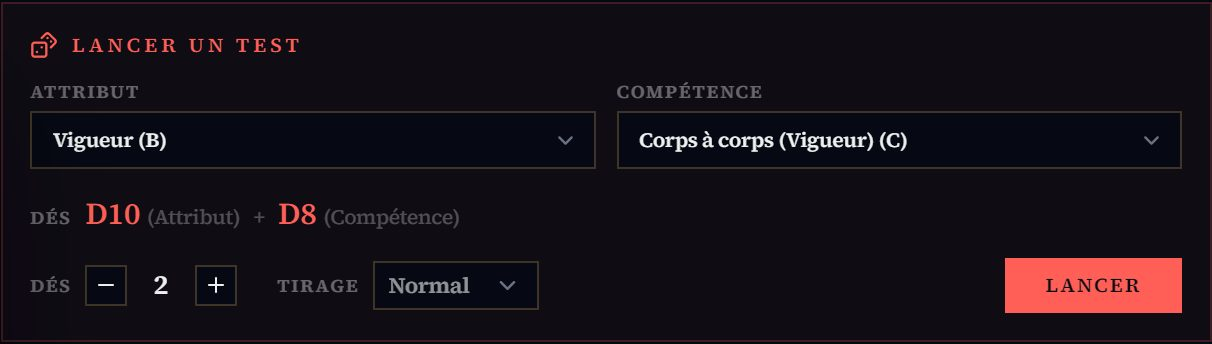
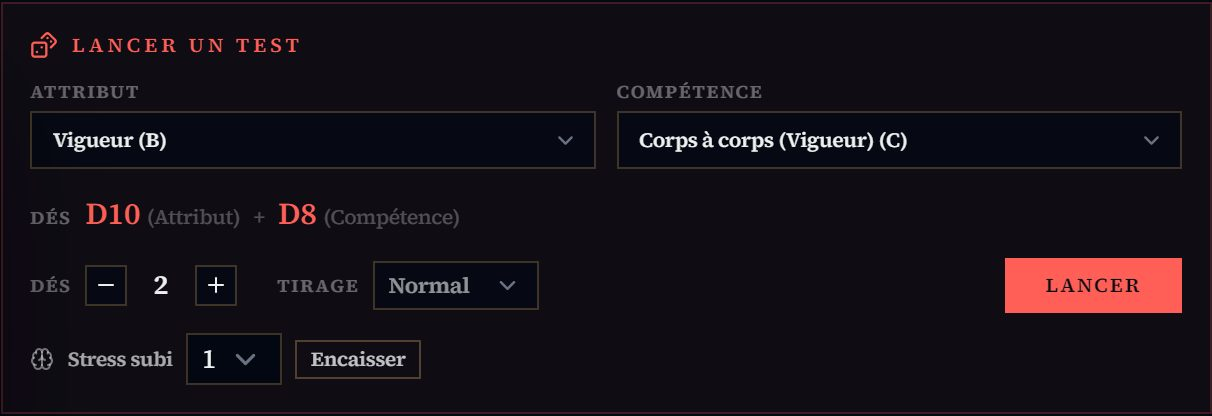
docs(manuel): les captures manquantes d'Alien, de Torg et de Blade Runner
Demande de David : faire les captures manquantes du manuel. Le scenario
capturesDesJeux gagne les scenes d'Alien (test de Panique, jet force), de Torg
(Lois du cosm courant, horde de sbires) et de Blade Runner (relance d'un D10 a
une seule reussite, stress encaisse). Six captures relues et entrees aux
pages 54 ; les captures communes des trois jeux refaites.

En relisant : les menus du stress subi et de Brise par les degats, trop
etroits (la fleche chevauchait la valeur), sont elargis.

diff --git a/e2e/capturesDesJeux.spec.ts b/e2e/capturesDesJeux.spec.ts
@@ -102,6 +102,7 @@ const MISES_EN_SCENE: MiseEnScene[] = [
         corpusId: 'alien', slug: 'alien', personnage: 'Dana Okoro',
         sheetData: { force: 4, combat_rapproche: 2, niveau_de_stress: 2, points_de_recit: 1 },
         composantes: ['force', 'combat_rapproche', 'niveau_de_stress'],
+        scenes: c => scenesDAlien(c),
     },
     {
         corpusId: 'blade-runner', slug: 'blade-runner', personnage: 'Agent Kessler',
@@ -134,6 +135,7 @@ const MISES_EN_SCENE: MiseEnScene[] = [
             dramatique: { premier: 'V', vilains: ['vivacite'], heros: ['fatigues'] },
             approuvees: ['provocation'],
         },
+        scenes: c => scenesDeTorg(c),
     },
 ];
 
@@ -548,9 +550,110 @@ async function scenesDeCthulhuHack(c: ContexteDeScene): Promise<void> {
     }
 }
 
+/**
+ * Le panneau de jet du PJ, ses composantes retenues, relancé jusqu'à ce que `voulu`
+ * paraisse — un 1 sur un dé de Stress, un D10 à une seule réussite. Le hasard du
+ * jet est celui du jeu : on relance, on ne le truque pas.
+ */
+async function jeterJusqua(c: ContexteDeScene, composantes: string[], voulu: (panneau: Locator) => Locator, essais = 40): Promise<Locator> {
+    const f = gmos.fenetre;
+    await vue(c.campagne, 'players', { joueur: JOUEUR, personnage: c.personnage });
+    const panneau = f.locator('[data-panneau-de-jet]').first();
+    await expect(panneau).toBeVisible({ timeout: 15_000 });
+    for (const [i, champ] of composantes.entries()) await panneau.locator('select').nth(i).selectOption(champ);
+    const cible = voulu(panneau);
+    for (let i = 0; i < essais && await cible.count() === 0; i++) {
+        await panneau.getByRole('button', { name: 'Lancer', exact: true }).click();
+    }
+    await expect(cible.first()).toBeVisible();
+    return panneau;
+}
+
+/** Le panneau photographié en entier : on agrandit la fenêtre le temps de la prise. */
+async function photographierLePanneau(panneau: Locator, nom: string): Promise<void> {
+    const fenetre = await gmos.application.browserWindow(gmos.fenetre);
+    await fenetre.evaluate(w => w.setContentSize(1440, 1800));
+    await photographier(panneau, nom);
+    await fenetre.evaluate(w => w.setContentSize(1440, 900));
+}
+
+/** Alien : le test de Panique qu'un 1 de Stress déclenche, et un jet forcé. */
+async function scenesDAlien(c: ContexteDeScene): Promise<void> {
+    const jet = (c.pilote.gameDriver as { jet?: { forcer?: unknown; panique?: unknown } }).jet;
+    const composantes = ['force', 'combat_rapproche', 'niveau_de_stress'];
+    if (jet?.panique) {
+        const panneau = await jeterJusqua(c, composantes, p => p.getByRole('button', { name: 'Test de Panique', exact: true }));
+        await panneau.getByRole('button', { name: 'Test de Panique', exact: true }).click();
+        await expect(panneau.locator('[data-test-de-panique]')).toBeVisible({ timeout: 15_000 });
+        await gmos.fenetre.waitForTimeout(1_000);
+        await photographierLePanneau(panneau, 'jeu-alien-panique');
+    }
+    if (jet?.forcer) {
+        // Un jet sans Panique, qu'on force : les dés relancés se cerclent, le Stress monte.
+        const panneau = await jeterJusqua(c, composantes, p => p.locator('button:enabled', { hasText: /^Forcer le jet/ }));
+        await panneau.locator('button:enabled', { hasText: /^Forcer le jet/ }).click();
+        await expect(panneau.getByText(/Jet forcé/).first()).toBeVisible();
+        await photographierLePanneau(panneau, 'jeu-alien-force');
+    }
+}
+
+/** Torg : les Lois du cosm courant, et une horde de sbires sur la carte d'un adversaire. */
+async function scenesDeTorg(c: ContexteDeScene): Promise<void> {
+    const pilote = c.pilote.gameDriver as { cosms?: { id: string }[]; combat?: { dommages?: { mecanique?: string } } };
+    const f = gmos.fenetre;
+    if (pilote.cosms?.length) {
+        await f.evaluate(({ campagne, cosm }) => {
+            const s = (window as unknown as Fenetre).useSessionOSStore;
+            s.setState(st => ({ campaigns: st.campaigns.map(x => x.id === campagne ? { ...x, cosmsParDefaut: [cosm] } : x) }));
+        }, { campagne: c.campagne, cosm: pilote.cosms[0].id });
+    }
+    const avecHorde = pilote.combat?.dommages?.mecanique === 'torg';
+    if (avecHorde) {
+        await f.evaluate(() => {
+            const combat = (window as unknown as Fenetre).useCombatStore.getState();
+            const fiche = { esprit: 7, resistance: 9 };
+            const adversaire = combat.combatants.find(x => !x.isPlayer);
+            // Une Esprit et une Résistance pour la horde : un sbire sans fiche les dirait à zéro.
+            if (adversaire) combat.updateCombatant(adversaire.id, { sheetData: { ...(adversaire.sheetData ?? {}), ...fiche } });
+            else combat.addCombatant({ name: 'Gospog', init: 0, isPlayer: false, faction: 'enemy', statuses: [], sheetData: fiche });
+        });
+    }
+    await vue(c.campagne, 'cockpit');
+    await ouvrirLeModule(gmos, 'Combat-OS');
+    if (pilote.cosms?.length) {
+        const lois = f.locator('[data-lois-du-cosm]').first();
+        await expect(lois).toBeVisible({ timeout: 15_000 });
+        await photographier(lois, 'jeu-torg-lois-du-cosm');
+    }
+    if (avecHorde) {
+        const carte = f.locator('[data-combattant]').filter({ hasText: 'Gospog' }).first();
+        await expect(carte).toBeVisible({ timeout: 15_000 });
+        await carte.getByRole('button', { name: /En horde/ }).click();
+        await carte.getByRole('button', { name: 'Former la horde', exact: true }).click();
+        await expect(carte.locator('[data-horde]')).toBeVisible();
+        await carte.getByRole('button', { name: 'Coup sur la horde', exact: true }).click();
+        await photographier(carte, 'jeu-torg-horde');
+    }
+}
+
 /** Blade Runner : la protection, Brisé par les dégâts et par le stress, sur la carte. */
 async function scenesDeBladeRunner(c: ContexteDeScene): Promise<void> {
-    const pilote = c.pilote.gameDriver as { combat?: { horsJeu?: unknown; protection?: unknown } };
+    const pilote = c.pilote.gameDriver as { combat?: { horsJeu?: unknown; protection?: unknown }; jet?: { stressSubi?: unknown; forcer?: { relancerUneReussite?: boolean } } };
+    // Relancer un D10 à une seule réussite, au forçage.
+    if (pilote.jet?.forcer?.relancerUneReussite) {
+        const panneau = await jeterJusqua(c, ['vigueur', 'corpsACorps'], p => p.locator('[data-relancer-aussi]'));
+        await panneau.locator('[data-relancer-aussi] input[type="checkbox"]').first().check();
+        await photographierLePanneau(panneau, 'jeu-blade-runner-relance');
+    }
+    // Le stress encaissé, avant toute chute.
+    if (pilote.jet?.stressSubi) {
+        await ecrireLaFiche(c, { sangFroid: 6 });
+        const carte = await entrerEnCombat(c);
+        await carte.getByLabel('Facteur de stress').selectOption('3');
+        await carte.getByRole('button', { name: 'Encaisser', exact: true }).click();
+        await gmos.fenetre.waitForTimeout(500);
+        await photographier(carte, 'jeu-blade-runner-stress');
+    }
     if (!pilote.combat?.horsJeu && !pilote.combat?.protection) return;
     await ecrireLaFiche(c, { sangFroid: 0 });
     const carte = await entrerEnCombat(c, 30);

diff --git a/src/modules/combat/components/HorsJeuDuCombattant.tsx b/src/modules/combat/components/HorsJeuDuCombattant.tsx
@@ -105,13 +105,13 @@ const PanneauDuHorsJeu: React.FC<{ combatant: Combatant; regle: RegleDuHorsJeu; 
                 <div className="flex flex-wrap items-center gap-2">
                     {tables.length > 1 && (
                         <select aria-label="Table" value={tableChoisie} onChange={e => setTableChoisie(Number(e.target.value))}
-                            className="rounded-lg border border-app-border/40 bg-app-bg px-2 py-1 text-ui-10">
+                            className="rounded-lg border border-app-border/40 bg-app-bg py-1 pl-2 pr-7 text-ui-10">
                             {tables.map((t, i) => <option key={t.label} value={i}>{t.label}</option>)}
                         </select>
                     )}
                     {!!regle.desAuChoix?.length && (
                         <select aria-label="Dé de critique" value={deChoisi} onChange={e => setDeChoisi(Number(e.target.value))}
-                            className="rounded-lg border border-app-border/40 bg-app-bg px-2 py-1 text-ui-10">
+                            className="rounded-lg border border-app-border/40 bg-app-bg py-1 pl-2 pr-7 text-ui-10">
                             {regle.desAuChoix.map(f => <option key={f} value={f}>D{f}</option>)}
                         </select>
                     )}

diff --git a/src/modules/session/components/fields/StressSubi.tsx b/src/modules/session/components/fields/StressSubi.tsx
@@ -46,7 +46,7 @@ const StressSubi: React.FC<{
             <Brain size={12} className="text-app-text/50" />
             <span className="font-bold text-app-text/70">{label} subi</span>
             <select aria-label={`Facteur de ${label.toLowerCase()}`} value={facteur} onChange={e => setFacteur(Number(e.target.value))}
-                className="rounded-md border border-app-border/40 bg-app-bg px-2 py-0.5">
+                className="min-w-[3.5rem] rounded-md border border-app-border/40 bg-app-bg py-0.5 pl-2 pr-7">
                 {Array.from({ length: max }, (_, i) => i + 1).map(n => <option key={n} value={n}>{n}</option>)}
             </select>
             <button type="button" onClick={subir}

diff --git a/documentation/User Guides/54-Jeu-Alien.md b/documentation/User Guides/54-Jeu-Alien.md
@@ -1,6 +1,6 @@
 # 👽 Jeu — Alien
 
-> **Pilote décrit :** « ALIEN, le jeu de rôle », exporté le 2026-10-14. Retour à [Les jeux et leurs mécaniques](./53-Les-jeux-et-leurs-mecaniques.md).
+> **Pilote décrit :** « ALIEN, le jeu de rôle », exporté le 2026-10-16 (captures du jour). Retour à [Les jeux et leurs mécaniques](./53-Les-jeux-et-leurs-mecaniques.md).
 
 Le moteur Year Zero : une réserve de d6, et des **dés de Stress** qui font monter la peur.
 
@@ -160,6 +160,8 @@ locale se vérifie sur chaque appareil choisi pour la diffusion.
 
 ![Après le lancer : deux réussites, et une Panique sur un dé de Stress](captures/jeu-alien-jet-lance.jpg)
 
+![Deux 1 sur les dés de Stress : « Forcer le jet » se grise et dit pourquoi, et le Test de Panique lit sa ligne dans la table — 3 + 2 = 5, Je tiens le coup](captures/jeu-alien-panique.jpg)
+
 ---
 
 ## Forcer le jet
@@ -172,6 +174,8 @@ Après le lancer, **« Forcer le jet »** :
 - **une fois par test**, ou **deux** avec le talent qui couvre l'attribut du jet (champ « Talent ») :
   Dépassement de soi et Cran (Force), Vif et Téméraire (Agilité), Ruse et Curiosité (Esprit),
   Compassion et Influence (Empathie). Le bouton se grise ensuite, et dit pourquoi.
+
+![Un jet forcé : deux dés gardés, sept relancés et cerclés, dont le nouveau dé de Stress ; le Stress monte de 2 à 3, et le bouton dit que le jet a déjà été forcé](captures/jeu-alien-force.jpg)
 
 **Au pupitre** (et depuis la télécommande), « Forcer le jet » relance le dernier jet, ajoute le dé de
 Stress et **annonce** « Stress +1 à reporter sur la fiche ».

diff --git a/documentation/User Guides/54-Jeu-Torg.md b/documentation/User Guides/54-Jeu-Torg.md
@@ -1,6 +1,6 @@
 # ⚡ Jeu — Torg Eternity
 
-> **Pilote décrit :** « Torg Eternity », exporté le 2026-10-13, corrigé le même soir ; cosms ajoutés le 2026-10-14. Retour à [Les jeux et leurs mécaniques](./53-Les-jeux-et-leurs-mecaniques.md).
+> **Pilote décrit :** « Torg Eternity », exporté le 2026-10-13, corrigé le même soir ; cosms ajoutés le 2026-10-14 ; réexporté le 2026-10-16 pour les captures. Retour à [Les jeux et leurs mécaniques](./53-Les-jeux-et-leurs-mecaniques.md).
 
 Les Chevaliers des Tempêtes contre les Seigneurs de Réalité. Les règles de cette page ont été
 relues contre le carnet NotebookLM « Torg » le 2026-10-13.
@@ -209,6 +209,8 @@ d'elles-mêmes, ou s'annoncent au bon moment (livre de base, relu contre le carn
 Les autres Lois (Gloire, Outsider, Sauvagerie, Vie, Domination, Vengeance…) restent à la table, en
 rappel.
 
+![Dans Combat-OS, le rappel compact des Lois du cosm courant — Prime Terre : Espoir, Gloire, Outsider](captures/jeu-torg-lois-du-cosm.jpg)
+
 ---
 
 ## Les Cartes de Cosm
@@ -244,6 +246,8 @@ est alors comptée comme jouée pour l'Acte. Ce qu'elle fait reste à la table.
   3 → +2, 4–5 → +3, 6–9 → +4, 10–14 → +5… En mêlée, quatre au plus contre un même défenseur.
 - **Les Cibles multiples** (p. 122) — au jet, « Cibles » : −2 par cible supplémentaire ; toutes les
   cibles touchées subissent les dommages.
+
+![Une horde de six Gospogs (Esprit 7, Résistance 9) après un coup de 10 : Choc commun 2, prochain KO à 8, et l'attaque combinée de quatre assaillants à +3](captures/jeu-torg-horde.jpg)
 
 ---
 

diff --git a/documentation/Planning/2026-10-16-todo.md b/documentation/Planning/2026-10-16-todo.md
@@ -34,9 +34,10 @@ est fait, on le coche ici **et** on le reporte au [registre](2026-08-23-chantier
   carte demande confirmation avant le lien (`ecartAuLien` dans `logic/jeuDuPersonnage.ts`,
   `CharacterGrid`), « Lier quand même » ou « Annuler » ; guide 10 à jour. Choix : confirmer plutôt
   qu'interdire, pour garder le passage d'un jeu à l'autre. *À reporter au registre.*
-- [ ] **Les captures manquantes du manuel** : le forçage et la Panique d'Alien, les cosms et les
-  hordes de Torg. Demande que David exporte ces deux pilotes ; le scénario est
-  `e2e/capturesDesJeux.spec.ts` (scènes propres à un jeu : `scenes`).
+- [x] **Les captures manquantes du manuel** — faites le 16/10 : Panique et forçage d'Alien, Lois du
+  cosm et horde de Torg, stress subi et relance d'une réussite de Blade Runner (scènes `scenesDAlien`,
+  `scenesDeTorg`, `scenesDeBladeRunner`). Les menus du Brisé et du stress, trop étroits, élargis au
+  passage. *À reporter au registre.*
 
 ## À définir avec David
 

diff --git a/documentation/User Guides/54-Jeu-Blade-Runner.md b/documentation/User Guides/54-Jeu-Blade-Runner.md
@@ -60,6 +60,8 @@ initial compris**, coûte un point, décompté sur la fiche :
 > désignent ces dés (D10 ou D12 entre 6 et 9). C'est risqué : le nouveau résultat s'applique, même
 > pire. *Ajouté le 2026-10-16.*
 
+![Vigueur (D10) et Corps à corps (D8) : le D10 n'a fait qu'une réussite (8) — la case « Relancer aussi » le désigne avant de forcer](captures/jeu-blade-runner-relance.jpg)
+
 ---
 
 ## Combat et santé
@@ -114,6 +116,8 @@ réflexe du livre) ; **chaque réussite retire un point**, le reste se retire du
 L'historique dit le calcul (« facteur 3 − 1 réussite (D10 7, D8 3) = −2 → 2 »). À zéro, le panneau
 **Brisé par le stress** paraît sur la carte. Les autres pertes du livre (tir en automatique, Quarts
 sans pause) se retirent avec le − de la carte.
+
+![La carte d'un Blade Runner : la protection, et le stress subi — facteur 3, encaissé : le Sang-froid passe de 6 à 4](captures/jeu-blade-runner-stress.jpg)
 
 ### La protection
 
